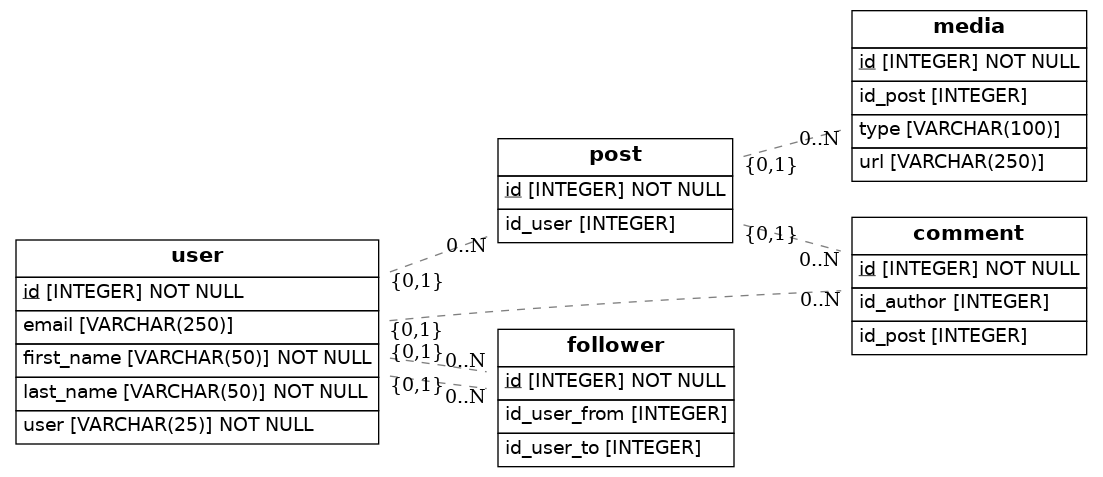
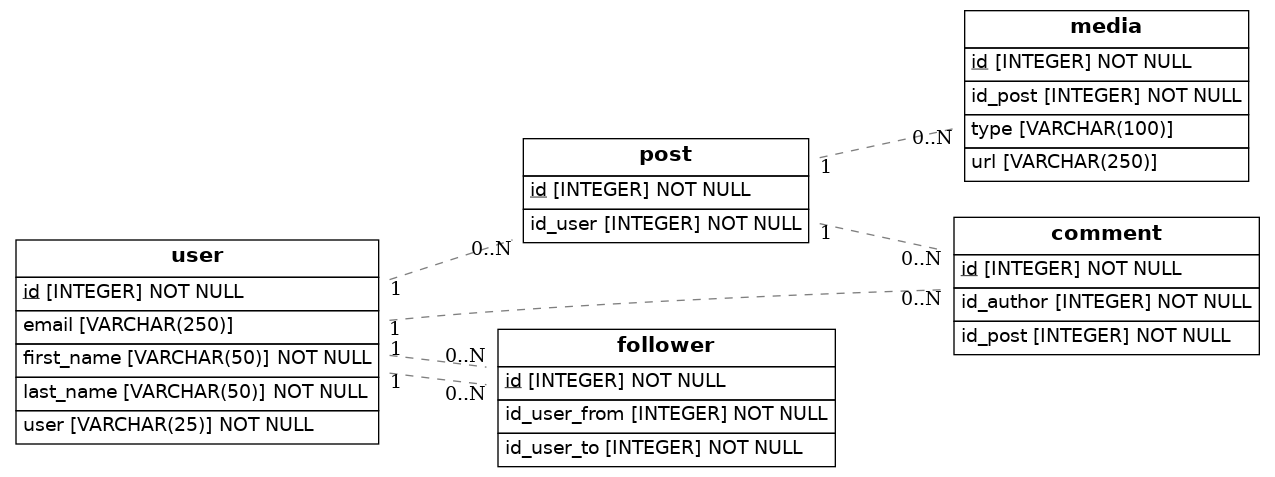
Primera Version

diff --git a/src/models.py b/src/models.py
@@ -18,7 +18,7 @@ class User(Base):
 class Post(Base):
     __tablename__= 'post'
     id = Column(Integer, primary_key=True)
-    id_user = Column(Integer, ForeignKey('user.id'))
+    id_user = Column(Integer, ForeignKey('user.id'), nullable=False)
     user = relationship(User)
 
 class Media(Base):
@@ -26,22 +26,22 @@ class Media(Base):
     id = Column(Integer, primary_key=True)
     type = Column(String(100))
     url = Column(String(250))
-    id_post = Column(Integer, ForeignKey('post.id'))
+    id_post = Column(Integer, ForeignKey('post.id'), nullable=False)
     post = relationship(Post)
 
 class Comment(Base): 
     __tablename__ = 'comment'
     id = Column(Integer, primary_key=True)
-    id_author = Column(Integer, ForeignKey('user.id'))
+    id_author = Column(Integer, ForeignKey('user.id'), nullable=False)
     user = relationship(User)
-    id_post = Column(Integer, ForeignKey('post.id'))
+    id_post = Column(Integer, ForeignKey('post.id'), nullable=False)
     post = relationship(Post)
 
 class Follower(Base):
     __tablename__ = 'follower'
     id = Column(Integer, primary_key=True)
-    id_user_from = Column(Integer, ForeignKey('user.id'))
-    id_user_to = Column(Integer, ForeignKey('user.id'))
+    id_user_from = Column(Integer, ForeignKey('user.id'), nullable=False)
+    id_user_to = Column(Integer, ForeignKey('user.id'), nullable=False)
     user = relationship(User)
 
     def to_dict(self):
